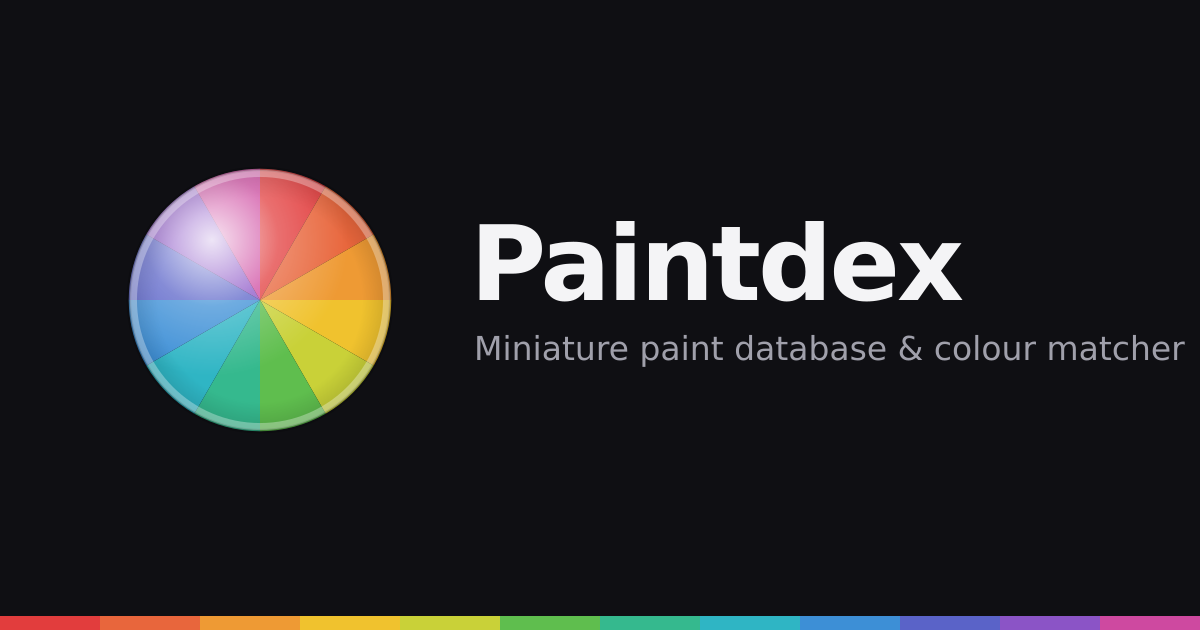
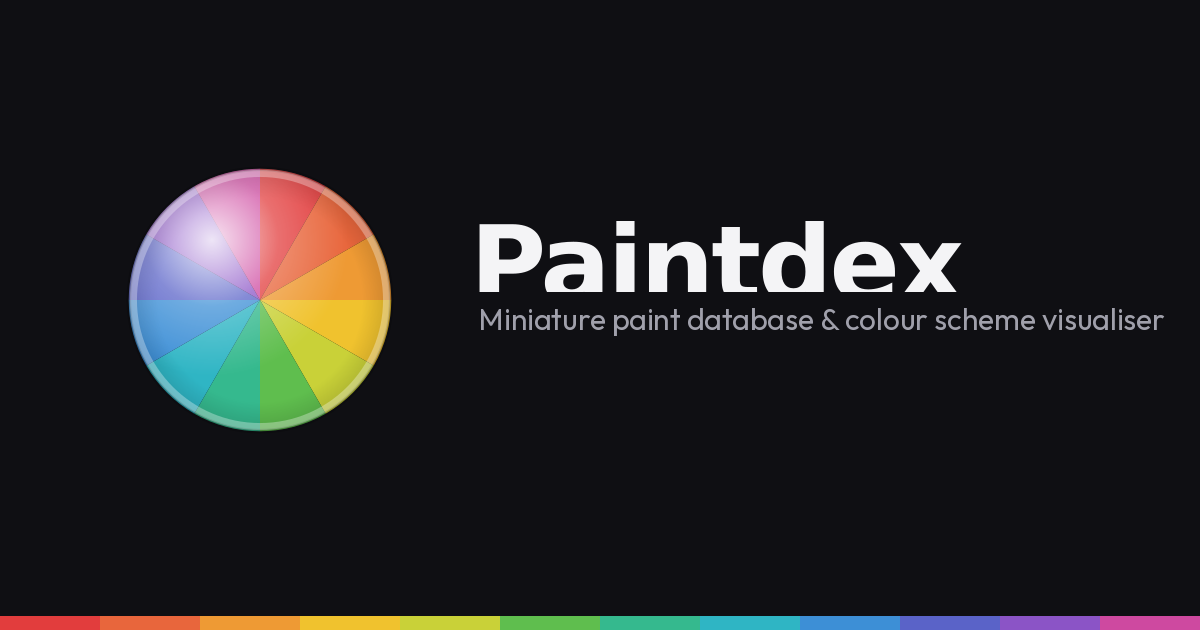
Address minor tweaks and fixes from README roadmap (#19)
- Update og-image.png tagline to "miniature paint database & colour
  scheme visualiser"
- Move the "Browse X paints" button into the visualiser banner and
  tighten hero spacing so the banner sits above the fold
- Make the homepage brand list clickable, linking to /paints?brand=...
  like the colour-family bar already does

Claude-Session: https://claude.ai/code/session_016tkmBj52roriyKGHt4ztT9

Changed region(s): [[0.37, 0.4524, 0.9867, 0.573]]

diff --git a/src/app/page.tsx b/src/app/page.tsx
@@ -67,7 +67,7 @@ export default function Home() {
   return (
     <main>
       <JsonLd data={websiteJsonLd} />
-      <section className="mx-auto max-w-4xl px-4 py-16 text-center">
+      <section className="mx-auto max-w-4xl px-4 py-10 text-center">
         <h1 className="text-4xl font-bold tracking-tight sm:text-5xl">
           Find the right miniature paint
         </h1>
@@ -91,14 +91,18 @@ export default function Home() {
           ))}
         </div>
 
-        <div className="mt-6 flex flex-wrap items-center justify-center gap-3 text-sm">
-          <Link
-            href="/paints"
-            className="rounded-lg bg-primary px-5 py-2.5 font-medium text-primary-foreground hover:opacity-90"
-          >
-            Browse {paints.length.toLocaleString()} paints
-          </Link>
-          <span className="text-muted-foreground">{brands.join(" · ")}</span>
+        <div className="mt-6 flex flex-wrap items-center justify-center gap-x-1.5 gap-y-2 text-sm text-muted-foreground">
+          {brands.map((brand, i) => (
+            <span key={brand}>
+              <Link
+                href={`/paints?brand=${encodeURIComponent(brand)}`}
+                className="hover:text-foreground hover:underline"
+              >
+                {brand}
+              </Link>
+              {i < brands.length - 1 && <span className="ml-1.5">·</span>}
+            </span>
+          ))}
         </div>
       </section>
 
@@ -112,15 +116,23 @@ export default function Home() {
               <p className="mt-2 text-muted-foreground">
                 The paint scheme visualiser lets you group paints by element —
                 armour, robes, lenses, etc — and preview every colour together as
-                blended vertical bars. Add paints from the database or your own custom 
+                blended vertical bars. Add paints from the database or your own custom
                 values. Save and share your schemes by logging in with a Google account.
               </p>
-              <Link
-                href="/visualiser"
-                className="mt-4 inline-block rounded-lg bg-primary px-5 py-2.5 text-sm font-medium text-primary-foreground hover:opacity-90"
-              >
-                Open the visualiser →
-              </Link>
+              <div className="mt-4 flex flex-wrap items-center gap-3">
+                <Link
+                  href="/visualiser"
+                  className="inline-block rounded-lg bg-primary px-5 py-2.5 text-sm font-medium text-primary-foreground hover:opacity-90"
+                >
+                  Open the visualiser →
+                </Link>
+                <Link
+                  href="/paints"
+                  className="inline-block rounded-lg border border-border px-5 py-2.5 text-sm font-medium hover:bg-accent"
+                >
+                  Browse {paints.length.toLocaleString()} paints
+                </Link>
+              </div>
             </div>
             <div
               className="hidden h-40 gap-2 sm:flex"

diff --git a/README.md b/README.md
@@ -120,11 +120,11 @@ Brand and product names are trademarks of their respective owners.
 
 ### Minor tweaks and fixes
 
-- [ ] Update og-image.png to say “miniature paint database & colour scheme
+- [x] Update og-image.png to say “miniature paint database & colour scheme
       visualiser”.
-- [ ] On the homepage, make sure the ‘plan your whole colour scheme’ banner is
+- [x] On the homepage, make sure the ‘plan your whole colour scheme’ banner is
       above the fold. Maybe move the ‘browse x paints’ button.
-- [ ] Make the list of brands on the homepage clickable, like the colour bar
+- [x] Make the list of brands on the homepage clickable, like the colour bar
 
 ### Paint database and UI features
 
